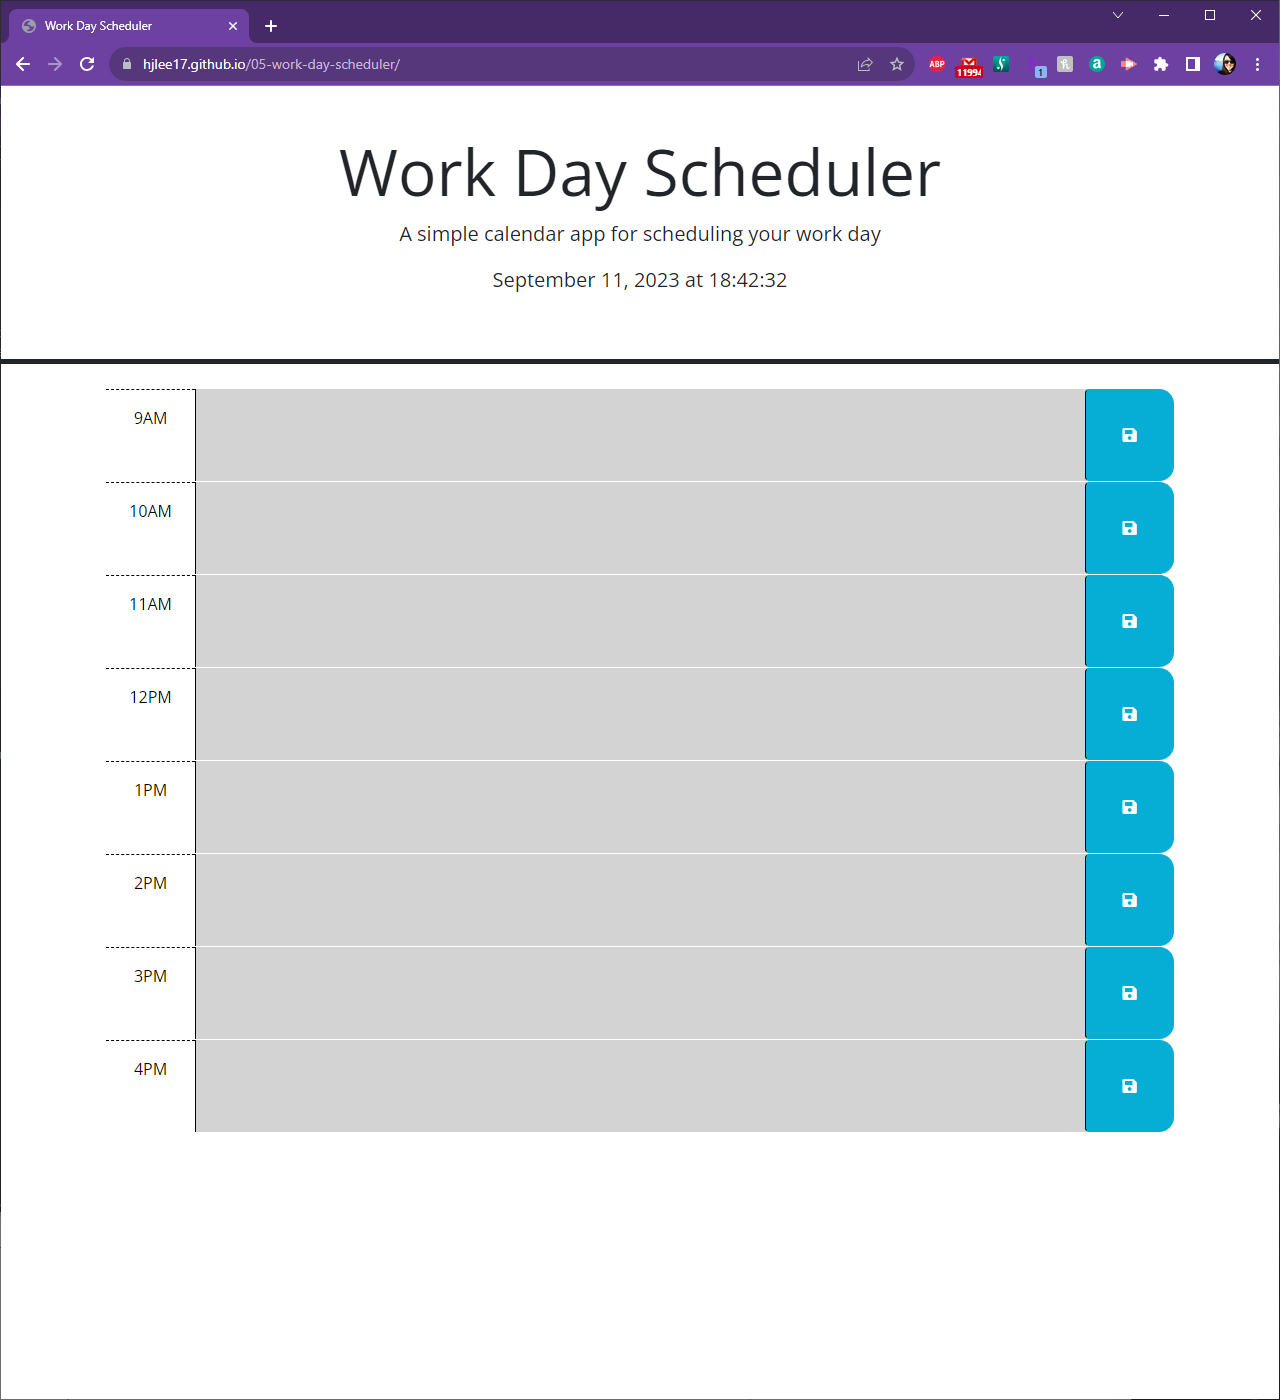
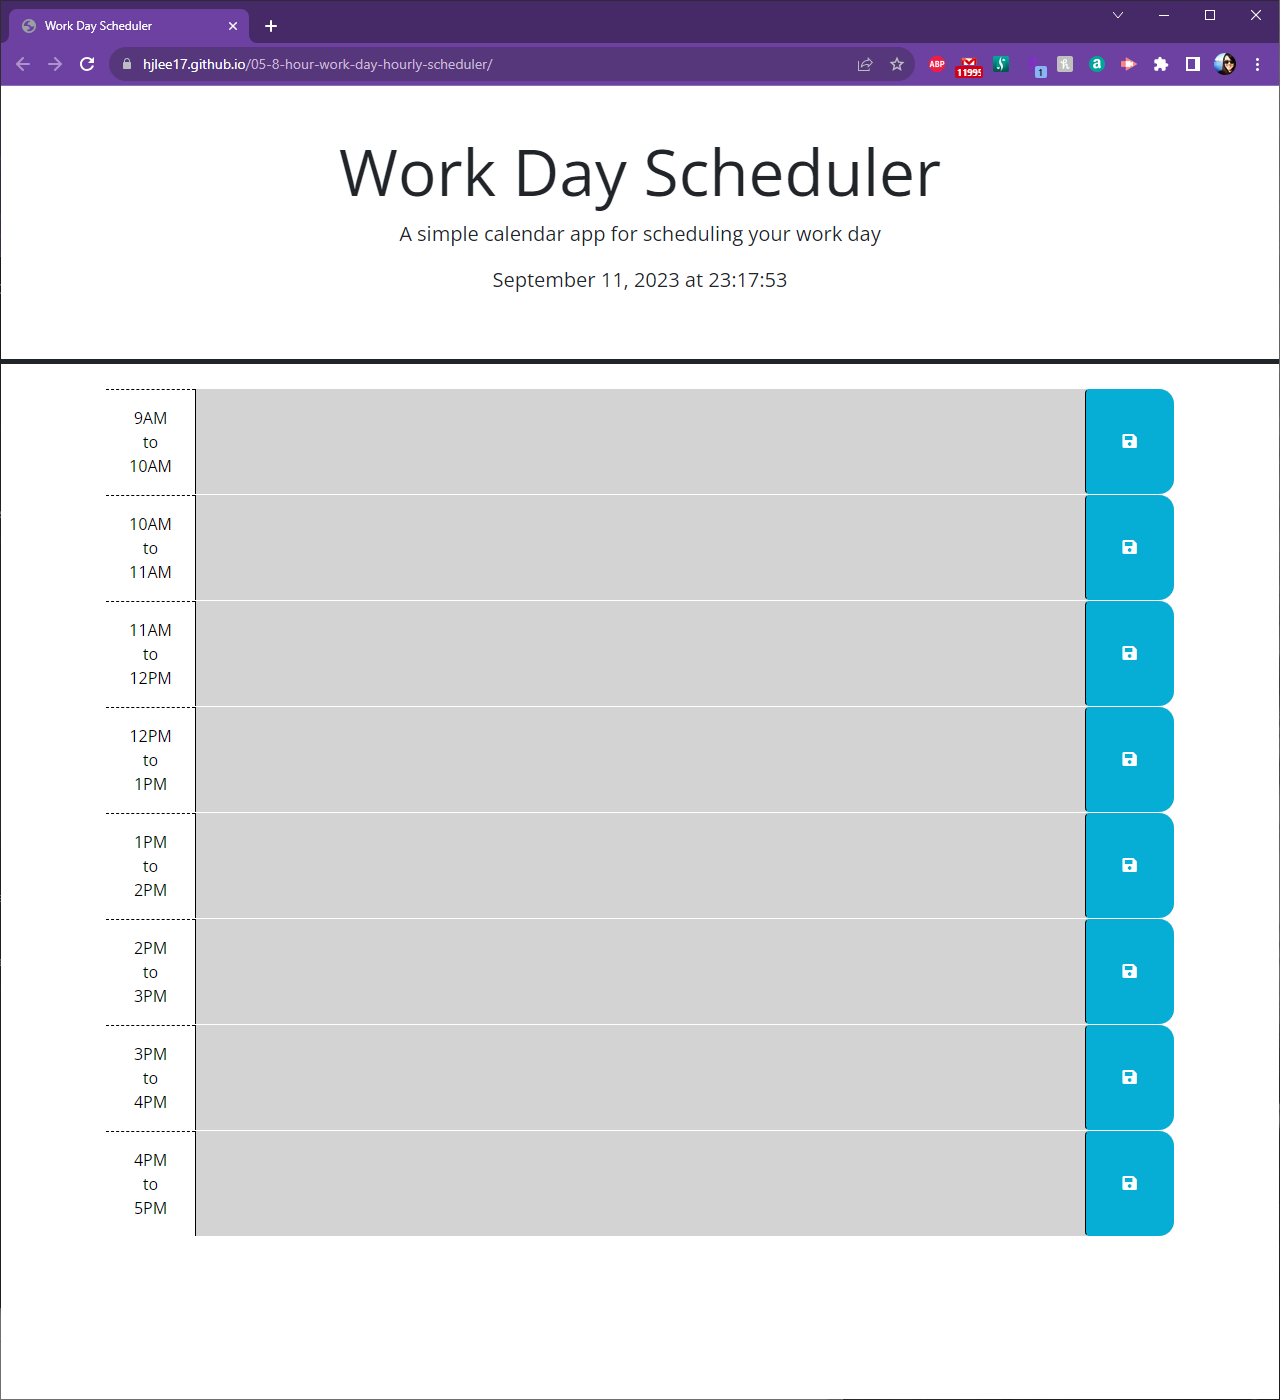
README application link and screenshot image updated

diff --git a/README.md b/README.md
@@ -9,7 +9,7 @@ Calendar application that allows a user to save events for each hour of a typica
 n/a
 
 ## Usage
-Link to deployed application: https://hjlee17.github.io/05-work-day-scheduler/
+Link to deployed application: https://hjlee17.github.io/05-8-hour-work-day-hourly-scheduler/
 
 A user can schedule and save events for each hour from 9am-5pm.
 ![Timed JavaScript Fundamentals Quiz Application.](assets/images/sc-window.png)
